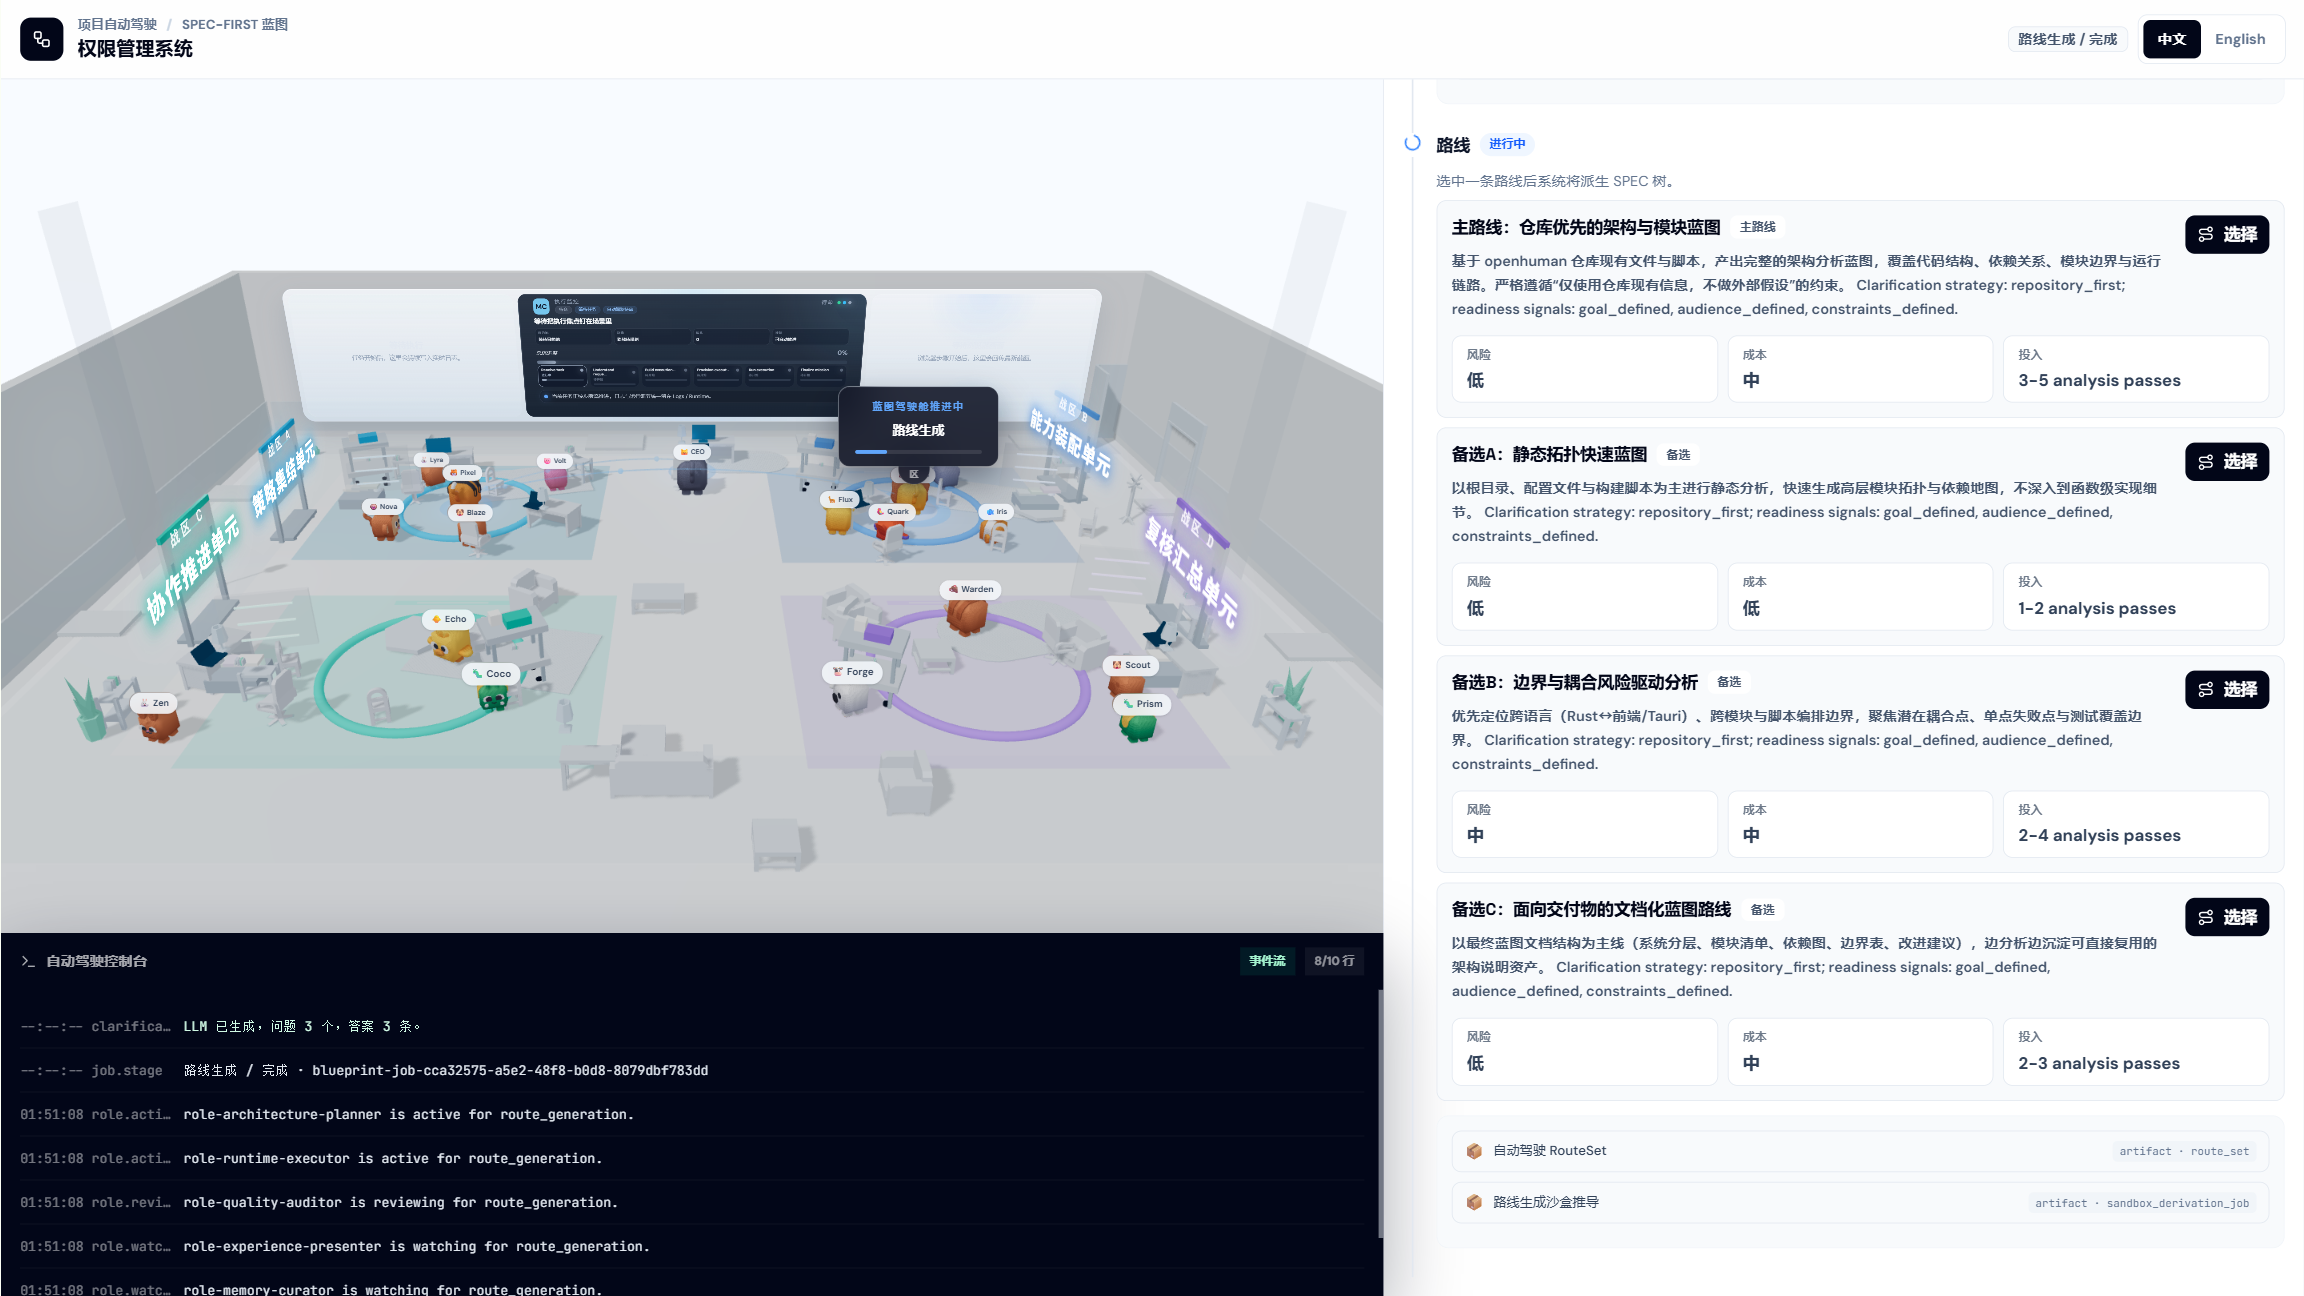
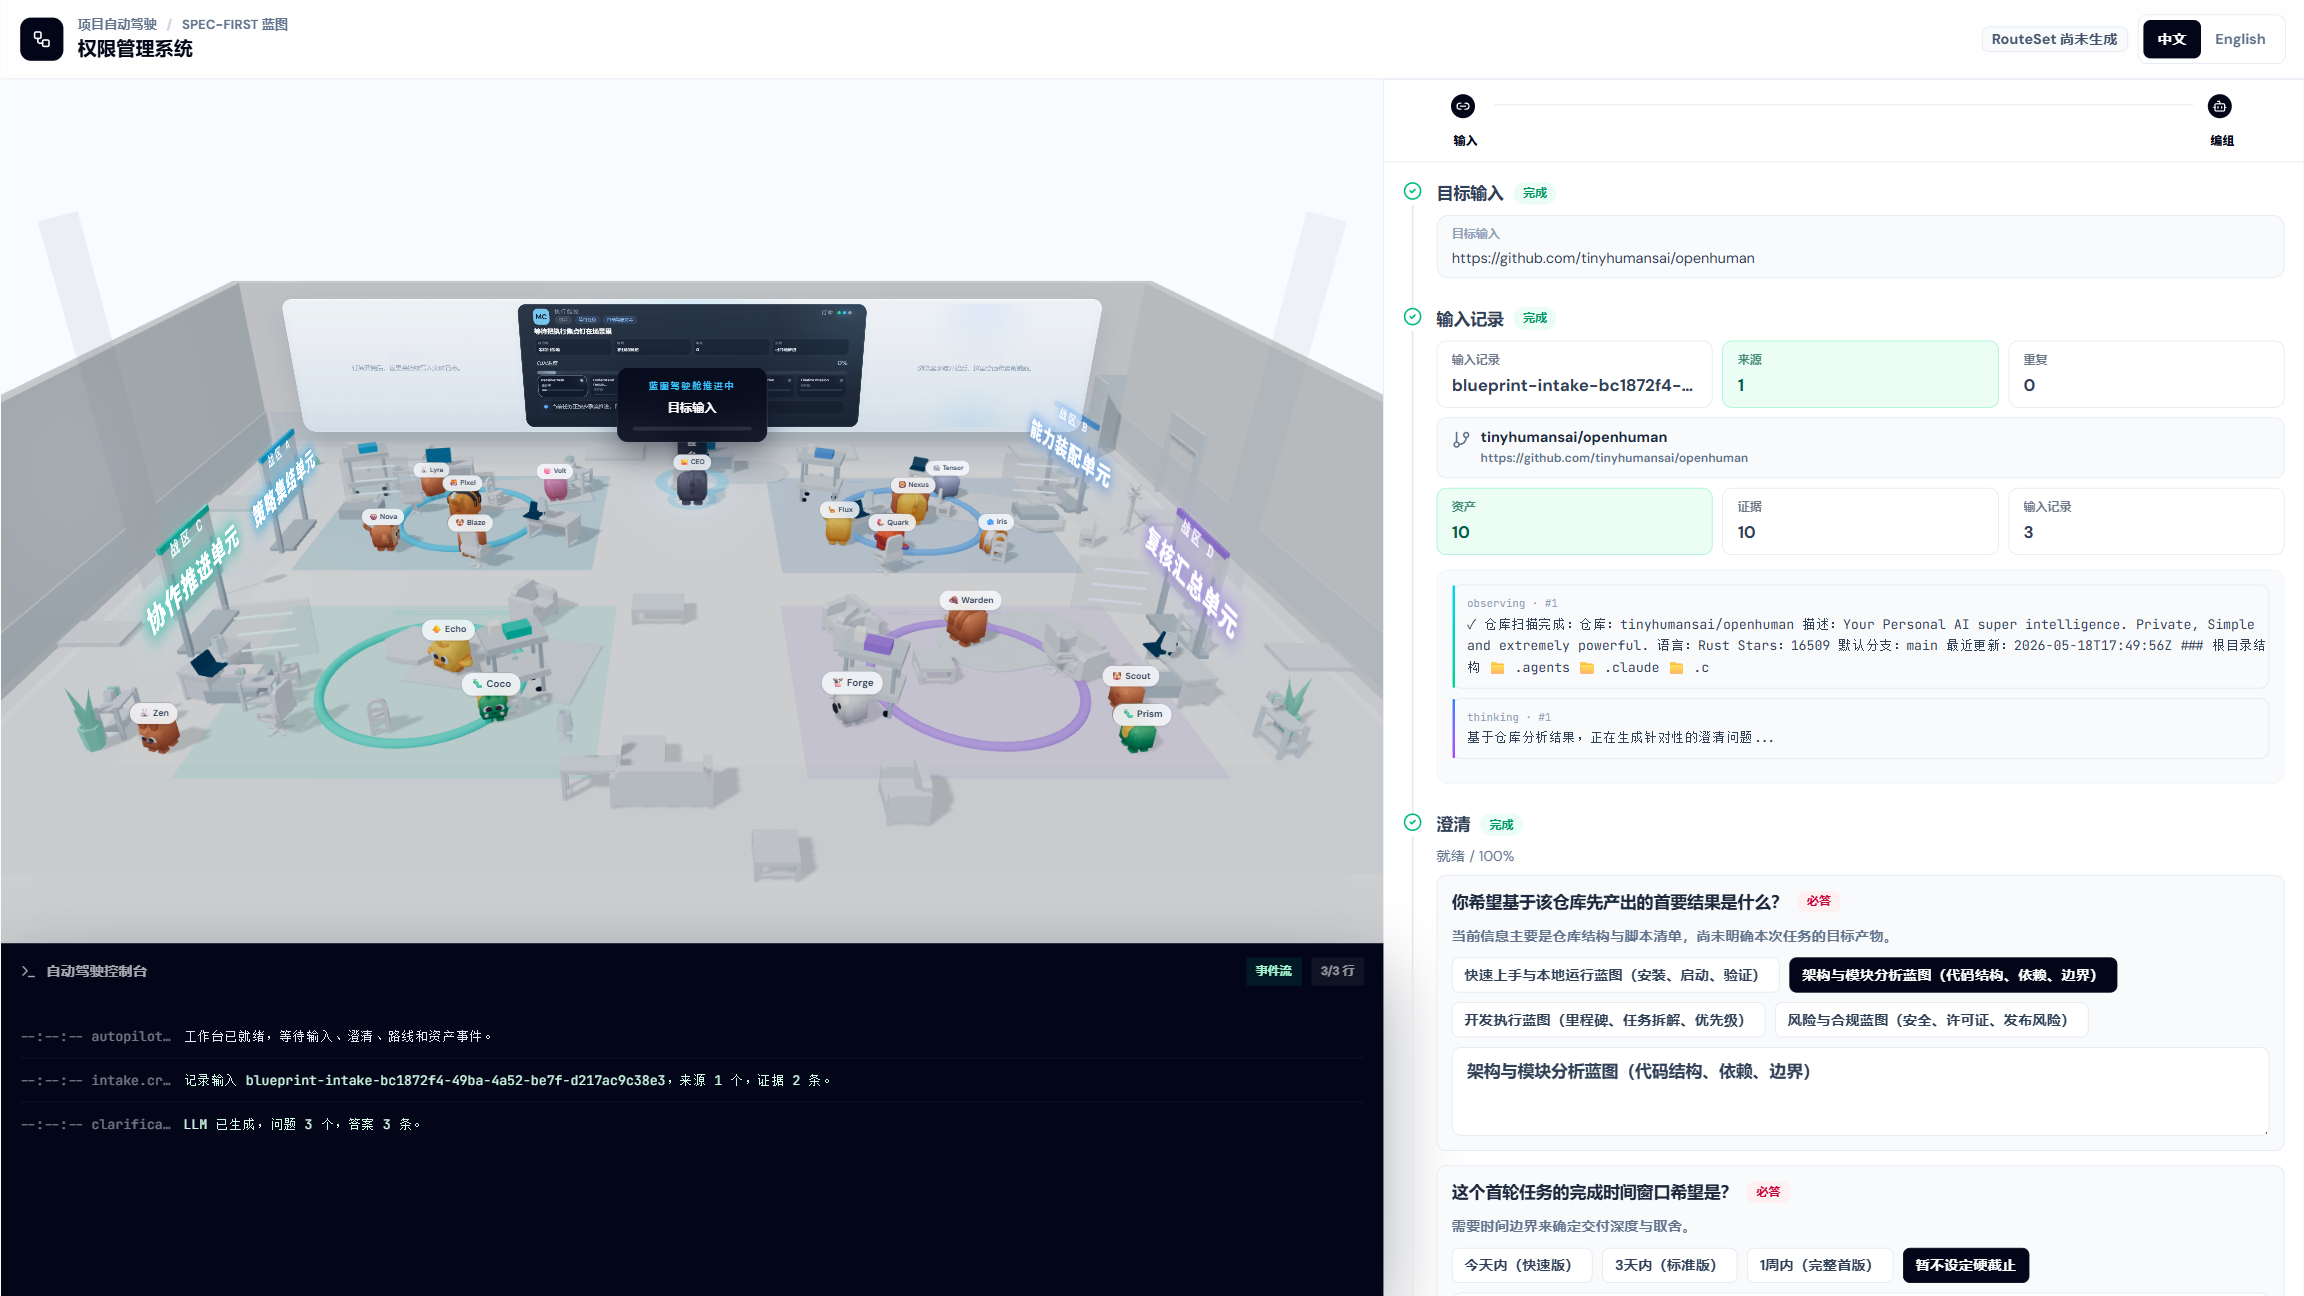
fix(autopilot): 恢复 aside 为原始 grid 布局 + 仅加 overflow-x-hidden
根因：合并冲突解决时把 aside 的 className 改坏了（丢了 gap-3，加了错误的
xl:h-full xl:max-h-full bg-white），导致 grid 子元素宽度约束失效。

修复：
- AutopilotRoutePage aside: 恢复为原始 'grid min-w-0 content-start gap-3
  xl:max-h-[calc(100vh-104px)] xl:overflow-y-auto' + 仅追加 xl:overflow-x-hidden
- AutopilotRightRail: 恢复为原始 'px-4 py-5'（不加额外 overflow/width）

grid + min-w-0 本身就能约束子元素宽度，不需要额外的 w-full/overflow-hidden。

diff --git a/client/src/pages/autopilot/AutopilotRoutePage.tsx b/client/src/pages/autopilot/AutopilotRoutePage.tsx
@@ -1637,7 +1637,8 @@ function AutopilotWorkflowRail({
 
   return (
     <aside
-      className="grid min-w-0 content-start bg-white xl:h-full xl:max-h-full xl:overflow-y-auto xl:overflow-x-hidden"      data-testid="autopilot-workflow-rail"
+      className="grid min-w-0 content-start gap-3 xl:max-h-[calc(100vh-104px)] xl:overflow-y-auto xl:overflow-x-hidden"
+      data-testid="autopilot-workflow-rail"
     >
       <section
         className="min-w-0 border border-slate-200 bg-white"

diff --git a/client/src/pages/autopilot/right-rail/AutopilotRightRail.tsx b/client/src/pages/autopilot/right-rail/AutopilotRightRail.tsx
@@ -480,7 +480,7 @@ export const AutopilotRightRail: FC<AutopilotRightRailProps> = (props) => {
       data-testid="autopilot-right-rail"
       data-autopilot-stage={currentStage}
       data-autopilot-sub-stage={activeSubStage ?? ""}
-      className="w-full overflow-hidden px-4 py-5"
+      className="px-4 py-5"
     >
       {/* fabric 阶段的 placeholder 保留(供测试断言) */}
       <div data-stage-placeholder="fabric" data-active="true" className="hidden" />

diff --git a/README.new.md b/README.new.md
@@ -44,10 +44,16 @@ pnpm run dev:all        # 全栈：前端 + 服务端 + 执行器
 
 ## 产品界面一览
 
-| | |
-|---|---|
-| ![Cube Pets Office 界面截图 A](./docs/assets/A.png) | ![Cube Pets Office 界面截图 B](./docs/assets/B.png) |
-| ![Cube Pets Office 界面截图 D](./docs/assets/D.png) | ![Cube Pets Office 界面截图 C](./docs/assets/C.png) |
+<table>
+  <tr>
+    <td width="50%"><img src="./docs/assets/A.png" alt="Cube Pets Office 界面截图 A" /></td>
+    <td width="50%"><img src="./docs/assets/B.png" alt="Cube Pets Office 界面截图 B" /></td>
+  </tr>
+  <tr>
+    <td width="50%"><img src="./docs/assets/D.png" alt="Cube Pets Office 界面截图 D" /></td>
+    <td width="50%"><img src="./docs/assets/C.png" alt="Cube Pets Office 界面截图 C" /></td>
+  </tr>
+</table>
 
 ---
 